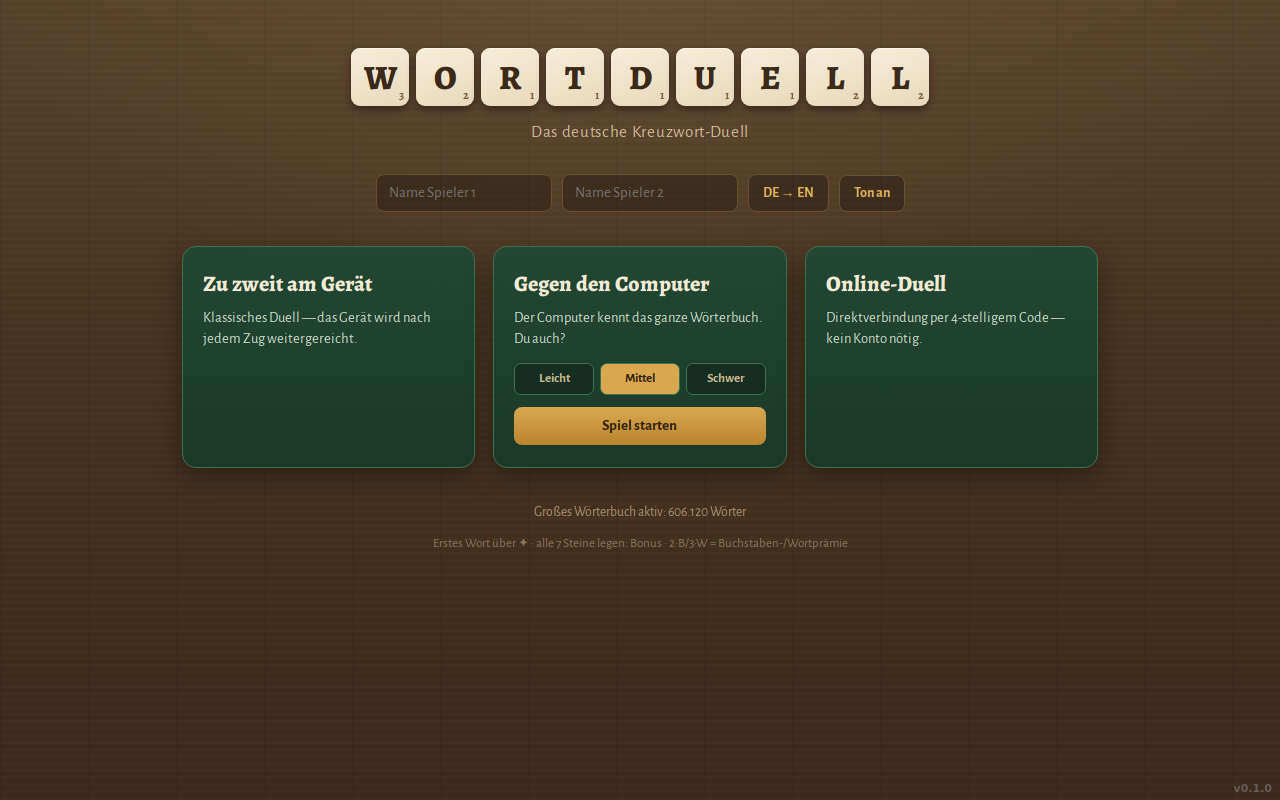
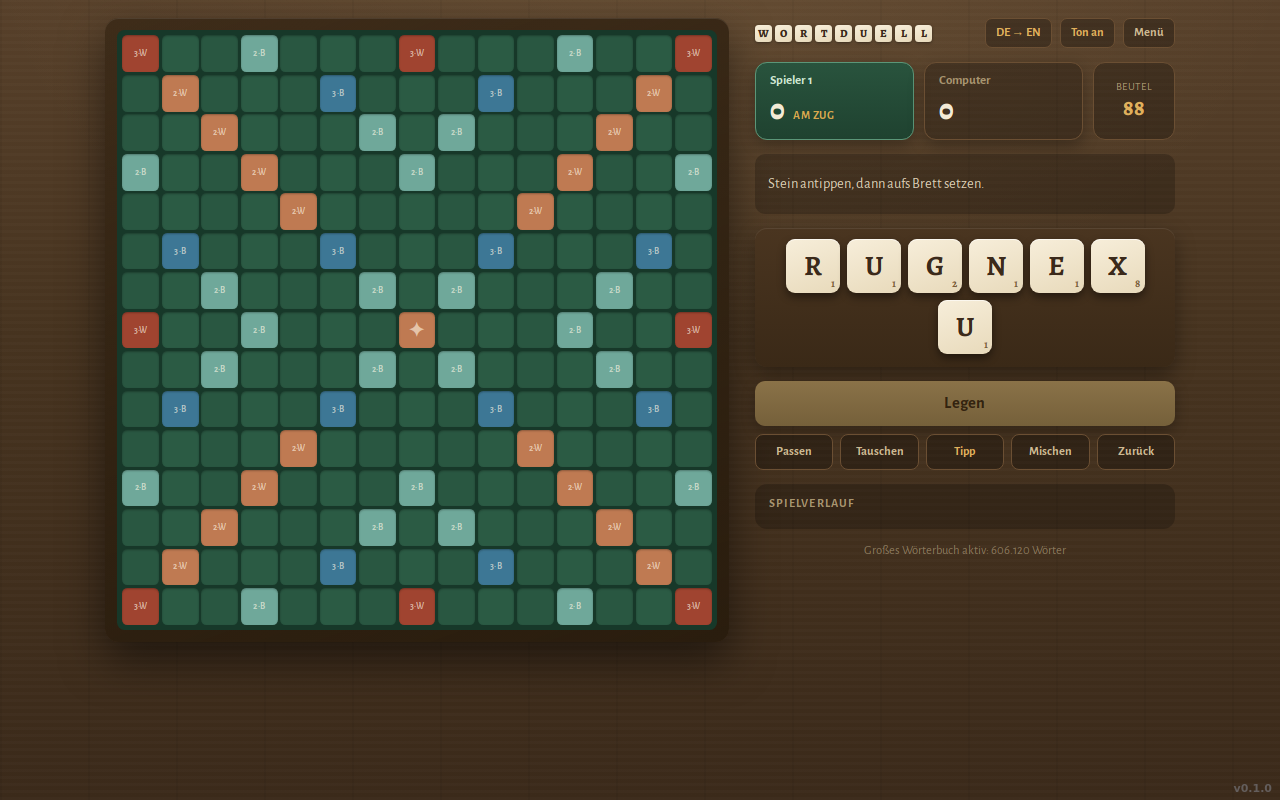
Show live WORTDUELL board instead of the menu in hub screenshot
Was captured as-is (no recipe), showing the start menu. Starting a
"vs Computer" round (Mittel difficulty is preselected) drops straight
into a live board -- crossword grid, both racks/scores, and the
compact WORTDUELL tile-logo in the header -- which is the only in-game
screen that still carries the logo (the big tile banner is menu-only).

Claude-Session: https://claude.ai/code/session_012aMPnjtnPEx8ebyPK6tALY

diff --git a/scripts/capture_screenshots.py b/scripts/capture_screenshots.py
@@ -245,6 +245,15 @@ ACTIONS = {
         ("down", "ArrowUp"), ("wait", 350), ("up", "ArrowUp"),
         ("wait", 300),
     ],
+    "game-wortduell": [
+        # "Gegen den Computer" (vs Computer, Mittel difficulty preselected)
+        # -> Spiel starten drops straight into a live board: the crossword
+        # grid, both racks/scores, and the compact WORTDUELL tile-logo in
+        # the header (the menu's big tile banner isn't shown once in-game,
+        # so this is the only in-game shot that still carries the logo).
+        ("click", CENTER), ("wait", 800),
+        ("select", "text=Spiel starten"), ("wait", 2000),
+    ],
 }
 
 